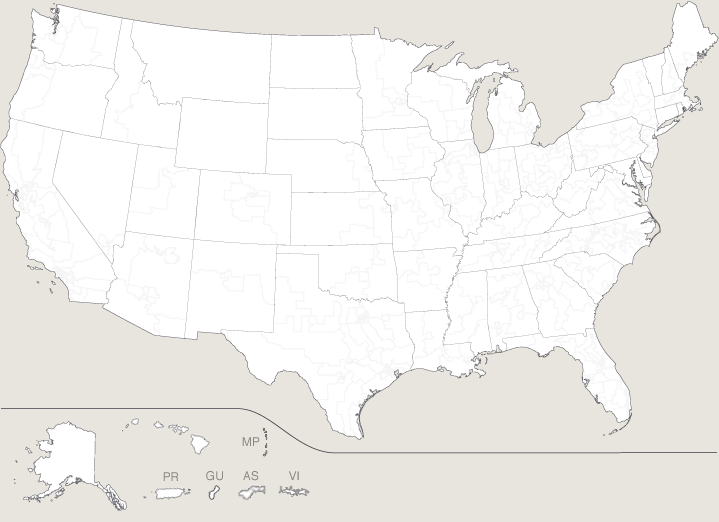
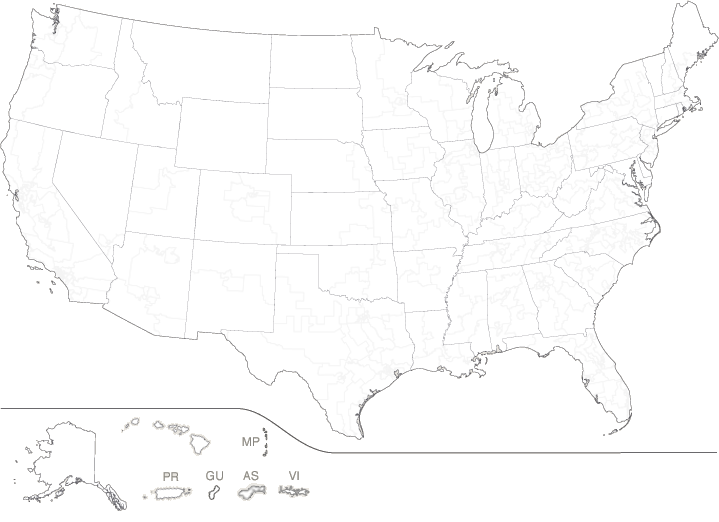
ipad app bill report views

diff --git a/site/popvox/templates/popvox/mobile/report.html b/site/popvox/templates/popvox/mobile/report.html
@@ -159,9 +159,9 @@
 					if (!report_state) {
 						$('#stats_state, #stats_district').hide();
 						$('#stats_state_none').hide();
-						if (res.stats.overall) {
+						if (res.stats.overall && res.stats.overall.timeseries) {
 							$('#chart_time').show();
-							bill_timeseries('chart_time', res.stats.overall.timeseries, { "bg": "white", "tooltip": false, "xlabels": true });
+							bill_timeseries('chart_time', res.stats.overall.timeseries, { "bg": "white", "tooltip": false, "xlabels": true, "width": 260 });
 						}
 					} else if (!res.stats.state) {
 						$('#stats_state_none').show();
@@ -255,17 +255,18 @@
 			return false;
 		}
 		
-		$(function() { show_report(); });
+		$(function() {
+			$('.wrapper').height($(window).height() - $('#select_district_box').height() - 60);
+			$('.wrapper').css({ overflow: "auto" });
+			show_report();
+		});
 		</script>
-		
-		<style>
-		#select_district_box>div { display: inline-block; padding-right: 25px; }
-		</style>
 	</head>
 	<body id="ipad">
 	
 	{% if request.GET.tab != "positions" %}
 	<div id="select_district_box">
+	<div class="select_district_box_wrapper">
 		<h2>Change State</h2> 
 		<select id="options_state" onchange="update('state', this.value)" data-inline="true">
 			<option value="">POPVOX Nation</option>
@@ -274,6 +275,7 @@
 		<span id="options_district_container">
 		</span>
 		<span id="loadingstatus"></span>
+	</div>
 	</div>
 	{% endif %}
 
@@ -329,39 +331,19 @@
 				{% if cosponsors_bar != -1 %}
 				<div class="b_people"> 
 					<div class="co-sponsors">
-						<span class="tick">tick</span> 
+						<!--<span class="tick">tick</span>--> 
 						<h4>Co-Sponsors</h4> 
-						<div class="col_l first">
-							<ul class="co-r">
-								<li>Rep. Earl Blumenauer [R, OR-3]</li>
-								<li>Rep. Michael Capuano [R, MA-8]</li>
-								<li>Rep. John Conyers [R, MI-14]</li>
-								<li>Rep. Sam Farr [R, CA-17]</li>
-								<li>Rep. Raul Grijalva [R, AZ-7]</li>
-							</ul>
-							<ul class="co-i">
-								<li>Rep. Michael Honda [I, CA-15]</li>
-								<li>Rep. Barbara Lee [I, CA-9]</li>
+						{% for k, v in cosponsors.items %}
+						<div class="col_l {% if forloop.first %}first{% endif %}">
+							<ul class="co-{{k|lower}}">
+								{% for c in v %}
+									{% if forloop.counter < 11 %}
+										<li>{{c.name}}</li>
+									{% endif %}
+								{% endfor %}
 							</ul>
 						</div><!-- col_l -->
-						<div class="col_l">
-							<ul class="co-d">
-								<li>Rep. Michael Honda [D, CA-15]</li>
-								<li>Rep. Barbara Lee [D, CA-9]</li>
-								<li>Rep. James McDermott [D, WA-7]</li>
-								<li>Rep. Jerrold Nadler [D, NY-8]</li>
-								<li>Del. Eleanor Norton [D, DC-0]</li>
-							</ul>
-						</div><!-- col_l -->
-						<!-- 
-						<ul>
-							{% for c in bill.cosponsors.all %}
-								{% if forloop.counter < 11 %}
-									<li>{{c.name}}</li>
-								{% endif %}
-							{% endfor %}
-						</ul> 
-						 -->
+						{% endfor %}
 					</div> 
 				</div> 
 				{% endif %}
@@ -395,56 +377,19 @@
 				<div class="b_people right"> 
 					<div class="organizations">
 						<span class="tick"></span> 
-						<div class="col_l first">
-							<h4 class="h4_endorse">Endorsing</h4>
-							<ul>
-								<li>American Hunanist Association</li>
-								<li>Americans For Forfeiture Reform</li>
-								<li>Drug Policy Alliance</li>
-								<li>Marijuana Policy Project</li>
-								<li>National Organization for Reform of Marijuana Laws (NORML)</li>
-								<li>Students for Sensible Drug Policy</li>
-								<li>Unemployed Workers Action Group </li>
-							</ul>
-							<h4 class="h4_other">Other</h4>
-							<ul>
-								<li>GeoChaching Association</li>
-								<li>Americans For Forfeiture Reform</li>
-								<li>Drug Policy Alliance</li>
-							</ul>
-						</div><!-- col_l -->
-						<div class="col_l">
-							<h4 class="h4_oppose">Opposing</h4>
-							<ul>
-								<li>American Humanist Association</li>
-								<li>Americans For Forfeiture Reform</li>
-								<li>Drug Policy Alliance</li>
-								<li>Marijuana Policy Project</li>
-								<li>National Organization for Reform of Marijuana Laws (NORML)</li>
-								<li>Students for Sensible Drug Policy</li>
-								<li>Unemployed Workers Action Group </li>
-							</ul>
-						</div><!-- col_l -->
-						<!--
 						{% for group, orglist in orgs %}
-							{% if orglist %}
-							<div class="col_l {% if forloop.first %}first{% endif %}">
-							{% if group == "+" %}<h4>Endorsing</h4>{% endif %}
-							{% if group == "-" %}<h4>Opposing</h4>{% endif %}
-							{% if group == "0" %}<h4>Other</h4>{% endif %}
+						<div class="col_l {% if forloop.first %}first{% endif %}">
+							{% if group == "+" %}<h4 class="h4_endorse">Endorsing</h4>{% endif %}
+							{% if group == "-" %}<h4 class="h4_oppose">Opposing</h4>{% endif %}
+							{% if group == "0" %}<h4 class="h4_other">Other</h4>{% endif %}
 							<ul>
 								{% for org, pos in orglist %}
 									{% if forloop.counter < 8 %}
 										<li>{{org.name}}</li>
 									{% endif %}
 								{% endfor %}
-							-->
-								<!--<li><a href="#">view more ></a></li>-->
-							<!--
 							</ul>
-							</div>
-							-->
-							{% endif %}
+						</div><!-- col_l -->
 						{% endfor %}
 					</div> <!-- organizations -->
 				</div> <!-- b_people -->
@@ -565,7 +510,7 @@
 			</div><!-- right-column2 -->
 		</div><!-- columns -->
 		
-		<iframe src="/widgets/bill-comment-map?bill={{bill.id}}" height="590" border="0" marginheight="0" marginwidth="0" frameborder="0" style="width: 739px; margin: 20px -20px 0 -20px;"></iframe><!--height="690"-->
+		<iframe src="/widgets/bill-comment-map?bill={{bill.id}}&background=white&hover=0" height="590" border="0" marginheight="0" marginwidth="0" frameborder="0" style="width: 720px; margin: 20px -20px 0 -20px;"></iframe><!--height="690"-->
 	{% endif %}
 
 	{% if request.GET.tab == "positions" %}

diff --git a/site/popvox/templates/popvox/widgets/commentsmapus.html b/site/popvox/templates/popvox/widgets/commentsmapus.html
@@ -9,6 +9,7 @@
 			body {
 				margin: 0;
 				padding: 0;
+				{% if request.GET.background == "white" %}background: white;{% endif %}
 			}
 		</style>
 		<script type="text/javascript" src="/media/js/jquery-1.4.3.min.js"></script>
@@ -101,7 +102,11 @@
 	<body class="colormode_1">
 		<div id="mapdots">
 		{% for district, count in data %}
-			<a href="{{bill.url}}/report#{{count.href}}" target="_top" xxx_title="{{count.label}}" onmouseover="show('{{district}}', '{{count.label|escapejs}}', {% if bill %}{{count.sentiment}}, {{count.count}},{% endif %} {{count.coord.left}}, {{count.coord.top}})" onmouseout="hide()" {% if request.GET.sac %}onclick="return false;"{% endif %}>
+			<a href="{{bill.url}}/report#{{count.href}}" target="_top" xxx_title="{{count.label}}"
+				{% if not request.GET.hover == "0" %}
+				onmouseover="show('{{district}}', '{{count.label|escapejs}}', {% if bill %}{{count.sentiment}}, {{count.count}},{% endif %} {{count.coord.left}}, {{count.coord.top}})" onmouseout="hide()"
+				{% endif %}
+				{% if request.GET.sac or request.GET.hover == "0" %}onclick="return false;"{% endif %}>
 				<div style="position: absolute; left: {{count.coord.left}}px; top: {{count.coord.top}}px;" class="dots {{count.class}}"></div>
 			</a>
 		{% endfor %}

diff --git a/site/media/mobile/css/style.css b/site/media/mobile/css/style.css
@@ -85,6 +85,8 @@ button, input, select, textarea { font: 12px Helvetica, Arial, sans-serif; }
 }
 #select_district_box {
 	background: url(../images/bg_ipad_menu.png) left top repeat-x;
+}
+#select_district_box .select_district_box_wrapper {
 	width: 689px;
 	height: 50px;
 	margin: 0 auto;
@@ -145,6 +147,8 @@ button, input, select, textarea { font: 12px Helvetica, Arial, sans-serif; }
 		z-index: 100;
 		display: none;
 		padding: 40px 25px;
+		height: 216px;
+		overflow: hidden;
 	}
 	.b_people div h4 {
 		font: bold 18px/20px helvetica, arial, san-serif;

diff --git a/site/media/js/charts.js b/site/media/js/charts.js
@@ -47,9 +47,9 @@ function bill_timeseries(container, data, opts) {
 	 chart: {
 	 	backgroundColor: (!opts || !opts.bg) ? "#e8e5df" : opts.bg,
 	    renderTo: container,
-	    margin: [10,0,(!opts || !opts.xlabels) ? 10 : 55, 40],
+	    margin: [10,0,(!opts || !opts.xlabels) ? 10 : 55, 50],
 	    defaultSeriesType: 'line',
-	    width: 220
+	    width: (!opts || !opts.xlabels) ? 220 : opts.width
 	 },
     tooltip: {
     	enabled: (!opts || opts.tooltip == null) ? true : opts.tooltip,

diff --git a/site/popvox/views/bills.py b/site/popvox/views/bills.py
@@ -280,14 +280,14 @@ def bill_comments(bill, **filterargs):
 		.select_related("user")
 
 def bill_statistics_cache(f):
-	def g(bill, shortdescription, longdescription, want_timeseries=False, **filterargs):
+	def g(bill, shortdescription, longdescription, want_timeseries=False, force_data=False, **filterargs):
 		cache_key = ("bill_statistics_cache:%d,%s,%s" % (bill.id, shortdescription.replace(" ", ""), want_timeseries)) 
 		
 		ret = cache.get(cache_key)
 		if ret != None and want_timeseries:
 			return ret
 		
-		ret = f(bill, shortdescription, longdescription, want_timeseries, **filterargs)
+		ret = f(bill, shortdescription, longdescription, want_timeseries, force_data, **filterargs)
 		
 		cache.set(cache_key, ret, 60*60*2) # two hours
 
@@ -295,7 +295,7 @@ def bill_statistics_cache(f):
 	return g
 
 @bill_statistics_cache # the arguments must match in the decorator!
-def bill_statistics(bill, shortdescription, longdescription, want_timeseries=False, **filterargs):
+def bill_statistics(bill, shortdescription, longdescription, want_timeseries, force_data, **filterargs):
 	# If any of the filters is None, meaning it is based on demographic info
 	# that the user has not set, return None for the whole statistic group.
 	for key in filterargs:
@@ -323,19 +323,11 @@ def bill_statistics(bill, shortdescription, longdescription, want_timeseries=Fal
 	# Don't display statistics when there's very little data,
 	# and definitely not when pro+con == 0 since that'll gen
 	# an error down below.
-	if pro+con+pro_reintro < 10:
+	if (pro+con+pro_reintro < 10 and not force_data) or pro+con+pro_reintro == 0:
 		return None
 
 	if pro+con < 10:
-		return {
-			"shortdescription": shortdescription,
-			"longdescription": longdescription,
-			"total": 0, "pro":0, "con":0,
-			"pro_pct": 0, "con_pct": 0,
-			"total_comments": bill_comments(bill, **filterargs).filter(message__isnull=False).count(),
-			"timeseries": None,
-			"pro_reintro": pro_reintro,
-			}
+		want_timeseries = False
 	
 	time_series = None
 	if want_timeseries:
@@ -1643,7 +1635,7 @@ def billreport_getinfo(request, congressnumber, billtype, billnumber, vehicleid)
 				"appreciated": c.id in user_appreciated,
 				} for c in comments ],
 		"stats": {
-			"overall": bill_statistics(bill, "POPVOX", "POPVOX Nation", want_timeseries=True),
+			"overall": bill_statistics(bill, "POPVOX", "POPVOX Nation", want_timeseries=True, force_data=True),
 			"state": bill_statistics(bill,
 				state,
 				govtrack.statenames[state],

diff --git a/site/popvox/views/mobileapps.py b/site/popvox/views/mobileapps.py
@@ -5,13 +5,15 @@ from django.template import RequestContext, TemplateDoesNotExist
 from popvox.models import Bill
 from popvox import govtrack
 
+import collections
+
 def ipad_billreader_welcome(request):
 	return HttpResponse("Welcome!")
 
 def ipad_billreader_report(request):
 	bill = get_object_or_404(Bill, id=request.GET.get('bill', 0))
 
-	orgs = { "+": { }, "-": { }, "0": { } }
+	orgs = collections.OrderedDict([("+", { }), ("-", { }), ("0", { })])
 	for pos in bill.campaign_positions():
 		p = pos.position
 		if not pos.campaign.org in orgs[p]:
@@ -31,7 +33,12 @@ def ipad_billreader_report(request):
 	if bill.cosponsors.all().count() == 0:
 		cosponsors_bar = -1
 	else:
-		cosponsors_bar = int( float(len(cosponsors["R"]))/float(bill.cosponsors.all().count()) *264 )
+		cosponsors_bar = int( float(len(cosponsors["R"]))/float(bill.cosponsors.all().count()) *323 )
+	
+	# order the groups by count
+	cosponsors = list(cosponsors.items())
+	cosponsors.sort(key = lambda kv : -len(kv[1]))
+	cosponsors = collections.OrderedDict(cosponsors)
 
 	return render_to_response('popvox/mobile/report.html', {
 			'bill': bill,
